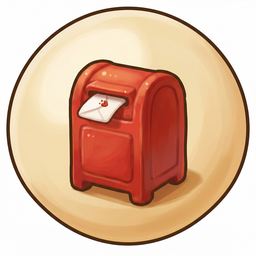
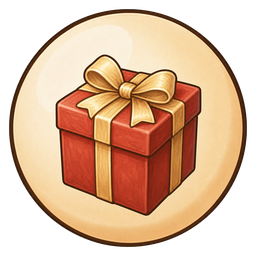
feat(nav): one matched badge set for the nav bar
Fixes review finding 10 — the primary navigation was four icons from three
different sets. All five badges commissioned from Manus and installed:

- nav-home    A.R.C. building, replacing the thatched cottage
- nav-care    single food bowl, brush removed (two objects merged at 38px)
- nav-social  wrapped gift, replacing the postbox (a metaphor no 7-year-old
              has the referent for — most have never posted a letter)
- nav-play    the existing paw, now inside the badge instead of floating bare
- fab-supplies  open crate, replacing fab-arc's lettered plaque — the most
              prominent control on screen was the only one carrying words

No wiring needed: NavBarView already preferred 'fab-supplies' over 'fab-arc',
and the asset manifest is a directory scan. fab-arc.png stays as the fallback.

The old set also disagreed on things the brief never mentioned, because it was
written from what the icons depict rather than from their pixels: three of five
were fully opaque (white corners, #EDEDED on fab-arc), and disc-to-canvas ran
0.930/0.938/0.875/0.770. tools/badge-postprocess.py normalises every piece to
a 238px disc on a 9px margin with clean alpha.

Also corrects three stale references found in passing: two NavBarView comments
that had gone false, assets-preview.html labelling nav-play as the FAB when it
is the Walk tab, and a dead card for nav-menu.png — a file that has never
existed in the repo, the same defect class as the finding itself.
[…]

diff --git a/apps/game/src/game-views/NavBarView.ts b/apps/game/src/game-views/NavBarView.ts
@@ -47,22 +47,19 @@ export function renderNavBar(
   const homeKey = scene.textures.exists('nav-home') ? 'nav-home' : 'icon-home';
   const careKey = scene.textures.exists('nav-care') ? 'nav-care' : 'icon-kitchen';
   const socialKey = scene.textures.exists('nav-social') ? 'nav-social' : 'icon-social';
-  // 'nav-walk' has never existed on disk, so this fell through to
-  // icon-walk: a pale grey paw-print at 128px filling ~40% of its canvas,
-  // drawn at 46px on a near-white bar. Next to three saturated 256px
-  // painterly badges it read as disabled rather than as a button.
-  // signs/nav-play.png is 256px, is from that same painterly set, and was
-  // referenced by nothing — the file that was made, unused, while the tab
-  // looked for a filename that was never made.
+  // 'nav-walk' has never existed on disk, and still doesn't. Keep reading
+  // 'nav-play' first: signs/nav-play.png is the file that exists, and adding
+  // a nav-walk.png would be dead art — the file made, unused, while the tab
+  // looked for a filename that was never made. Overwrite nav-play.png.
   const walkKey = scene.textures.exists('nav-play')
     ? 'nav-play'
     : (scene.textures.exists('nav-walk')
         ? 'nav-walk'
         : (scene.textures.exists('icon-walk') ? 'icon-walk' : 'icon-games'));
-  // Same story: 'fab-supplies' does not exist, so the most prominent control
-  // on the screen fell back to a flat brown truck on transparency, the only
-  // element on the bar drawn in a different style from everything round it.
-  // fab-arc is the painterly badge that belongs with the rest.
+  // 'fab-supplies' now exists — an open crate, commissioned 2026-08-30 with
+  // the rest of the set, replacing fab-arc's lettered wooden plaque. The
+  // plaque was the only control on the bar carrying words, which a
+  // pre-reader gets nothing from. fab-arc stays on disk as the fallback.
   const fabKey = scene.textures.exists('fab-supplies')
     ? 'fab-supplies'
     : (scene.textures.exists('fab-arc')

diff --git a/apps/game/public/admin/assets-preview.html b/apps/game/public/admin/assets-preview.html
@@ -62,8 +62,8 @@
     <div class="card"><img class="icon-img" src="/assets/signs/nav-home.png" alt="home"><span class="label">nav-home.png</span></div>
     <div class="card"><img class="icon-img" src="/assets/signs/nav-care.png" alt="care"><span class="label">nav-care.png</span></div>
     <div class="card"><img class="icon-img" src="/assets/signs/nav-social.png" alt="social"><span class="label">nav-social.png</span></div>
-    <div class="card"><img class="icon-img" src="/assets/signs/nav-menu.png" alt="menu"><span class="label">nav-menu.png</span></div>
-    <div class="card"><img class="icon-img" src="/assets/signs/nav-play.png" alt="play"><span class="label">nav-play.png (FAB)</span></div>
+    <div class="card"><img class="icon-img" src="/assets/signs/nav-play.png" alt="walk"><span class="label">nav-play.png (Walk tab)</span></div>
+    <div class="card"><img class="icon-img" src="/assets/signs/fab-supplies.png" alt="supplies"><span class="label">fab-supplies.png (FAB)</span></div>
   </div>
 </section>
 

diff --git a/tools/badge-postprocess.py b/tools/badge-postprocess.py
@@ -1,0 +1,120 @@
+#!/usr/bin/env python3
+"""Turn a Manus badge render into a set-matching 256x256 nav icon.
+
+The nav badges are a disc on transparency. `nav-home.png` is the exemplar:
+a 256 canvas whose alpha bbox is (9, 9, 247, 247) — a disc of diameter 238
+centred with a 9px margin. Three of the five icons currently shipped
+(nav-social, nav-care, fab-arc) are fully opaque instead, with white or grey
+corners; this script normalises everything to nav-home's geometry.
+
+Manus may deliver transparency, or a flat magenta field, or an opaque
+background of some other flat colour. All three are handled: the disc is
+located from whatever separates it from its surround, then re-cut to a clean
+circle so the edge is ours rather than the model's.
+
+    python3 tools/badge-postprocess.py IN.png OUT.png [--inspect]
+"""
+
+import sys
+from PIL import Image, ImageDraw, ImageFilter
+
+TARGET = 256
+# nav-home.png's geometry, measured from the shipped file.
+MARGIN = 9
+DIAMETER = TARGET - 2 * MARGIN  # 238
+SUPERSAMPLE = 8  # antialias the mask by cutting it large and downscaling
+
+
+def find_disc(im):
+    """Return (cx, cy, r) of the badge in image coordinates.
+
+    Prefers real alpha. Falls back to keying the background colour sampled
+    from the corners, which covers both the magenta fallback and an opaque
+    white/grey field.
+    """
+    w, h = im.size
+    alpha = im.split()[3]
+    bbox = alpha.getbbox()
+    opaque = alpha.histogram()[129:]
+    opaque = sum(opaque)
+
+    used_alpha = bbox is not None and opaque < 0.92 * w * h
+    if used_alpha:
+        x0, y0, x1, y1 = bbox
+    else:
+        px = im.load()
+        corners = [px[1, 1], px[w - 2, 1], px[1, h - 2], px[w - 2, h - 2]]
+        bg = tuple(sum(c[i] for c in corners) // 4 for i in range(3))
+        # Tolerance is generous: these renders have soft, slightly noisy fields.
+        tol = 46
+        mask = Image.new("L", (w, h), 0)
+        mp = mask.load()
+        for y in range(h):
+            for x in range(w):
+                r, g, b, _ = px[x, y]
+                if abs(r - bg[0]) + abs(g - bg[1]) + abs(b - bg[2]) > tol:
+                    mp[x, y] = 255
+        # Drop specks so a stray pixel cannot widen the bbox.
+        mask = mask.filter(ImageFilter.MedianFilter(5))
+        bbox = mask.getbbox()
+        if bbox is None:
+            raise SystemExit("could not locate the badge against its background")
+        x0, y0, x1, y1 = bbox
+
+    cx, cy = (x0 + x1) / 2, (y0 + y1) / 2
+    r = min(x1 - x0, y1 - y0) / 2
+    return cx, cy, r, ("alpha" if used_alpha else "keyed")
+
+
+def main():
+    args = [a for a in sys.argv[1:] if not a.startswith("--")]
+    inspect = "--inspect" in sys.argv
+    if len(args) != 2:
+        raise SystemExit(__doc__)
+    src, dst = args
+
+    im = Image.open(src).convert("RGBA")
+    cx, cy, r, how = find_disc(im)
+
+    if inspect:
+        ratio = (2 * r) / max(im.size)
+        print(f"{src}: size={im.size} via={how} centre=({cx:.0f},{cy:.0f}) "
+              f"r={r:.0f} disc/canvas={ratio:.3f} (target {DIAMETER/TARGET:.3f})")
+
+    # Crop a square exactly around the disc, then pad to nav-home's proportion.
+    pad = r * (TARGET / DIAMETER)
+    box = (round(cx - pad), round(cy - pad), round(cx + pad), round(cy + pad))
+    cut = im.crop(box)  # crop() zero-fills anything outside the source
+
+    big = TARGET * SUPERSAMPLE
+    cut = cut.resize((big, big), Image.LANCZOS)
+
+    mask = Image.new("L", (big, big), 0)
+    inset = MARGIN * SUPERSAMPLE
+    ImageDraw.Draw(mask).ellipse(
+        (inset, inset, big - inset - 1, big - inset - 1), fill=255
+    )
+
+    out = Image.new("RGBA", (big, big), (0, 0, 0, 0))
+    out.paste(cut, (0, 0), mask)
+    out = out.resize((TARGET, TARGET), Image.LANCZOS)
+
+    # A keyed background leaves a rim of blended background colour just inside
+    # the cut. Pull the edge in by a hair so none of it survives.
+    if how == "keyed":
+        trim = Image.new("L", (big, big), 0)
+        bite = inset + SUPERSAMPLE * 2
+        ImageDraw.Draw(trim).ellipse(
+            (bite, bite, big - bite - 1, big - bite - 1), fill=255
+        )
+        trim = trim.resize((TARGET, TARGET), Image.LANCZOS)
+        out.putalpha(Image.composite(out.split()[3], trim, trim.point(lambda v: 255 if v == 255 else 0)))
+
+    out.save(dst)
+    a = out.split()[3]
+    print(f"wrote {dst} {out.size} via={how} "
+          f"alpha_bbox={a.getbbox()} opaque={sum(a.histogram()[129:])}")
+
+
+if __name__ == "__main__":
+    main()

diff --git a/docs/nav-icon-commission-log-2026-08-30.md b/docs/nav-icon-commission-log-2026-08-30.md
@@ -1,0 +1,167 @@
+# Nav icon commission — sent log, 30 August 2026
+
+Companion to `nav-icon-brief-2026-08-30.md`, which was written for the OpenAI
+route and marked "not yet sent". **It has now been commissioned from Manus**,
+on Marcus's instruction, 30 August.
+
+## Deviation from Rule 6, and what was done about it
+
+`manus-sprite-rules.md` Rule 6 points set-matching work at OpenAI's
+`/v1/images/edits`, because Manus's failure mode is proceeding from the text
+description when it cannot fetch its references. Marcus chose Manus anyway.
+The mitigation was to remove the fetch from the equation:
+
+- All five references were **uploaded into the task as attachments** via the
+  v2 presigned flow (`POST /v2/file.upload`, then `PUT` to the returned
+  `upload_url`), not passed as URLs. Each was confirmed `status: uploaded`
+  before the task was created. The public Vercel URLs are in the brief as a
+  secondary fallback only.
+- The brief opens with a **STOP check**: describe each reference before
+  drawing, and stop if you cannot see them. This is the check that catches a
+  silent text-only generation regardless of whether the attachment content
+  part was shaped correctly.
+
+Upload can be driven from the shell — the MCP `manus_upload_file` tool wants
+`content_base64` in the call itself, which for five PNGs is ~100k characters
+of tokens. `curl` reads the file off disk instead. Note the presigned `PUT`
+must NOT carry the `x-manus-api-key` header.
+
+## Scope
+
+Marcus approved **all five** pieces, including the optional item 5 — so the
+thatched cottage is retired and Home becomes the A.R.C. building.
+
+| # | File | What |
+|---|---|---|
+| 1 | `fab-supplies.png` | open wooden crate, sack + bundle — replaces the lettered "A.R.C." plaque |
+| 2 | `nav-social.png` | wrapped gift — replaces the postbox |
+| 3 | `nav-care.png` | single food bowl — brush removed |
+| 4 | `nav-play.png` | existing orange paw, redrawn inside the badge |
+| 5 | `nav-home.png` | A.R.C. building in the badge — replaces the cottage |
+
+Overwrite `nav-play.png`; do **not** add `nav-walk.png` (see the brief —
+`NavBarView` checks `nav-play` first, and a `nav-walk.png` would sit unused,
+which is the mistake that produced finding 10 in the first place).
+
+## References uploaded
+
+`nav-home.png`, `nav-social.png`, `nav-care.png` (the badge exemplars),
+`driving/topdown/site-arc-building.png` (identity for piece 5) and the current
+`nav-play.png` (paw shape/colour for piece 4).
+
+The building reference carries "ANIMAL RESCUE CENTRE" lettering and is drawn
+in a lighter ink-and-wash style than the badges. The brief asks explicitly for
+the lettering to be dropped and the building repainted in the badge style.
+
+## Task
+
+`MhSrzYnKgTzV7L2C2xN3fU` — https://manus.im/app/MhSrzYnKgTzV7L2C2xN3fU
+Profile `manus-1.6-max`. Output lands in `manus-output/nav-icons/` (gitignored).
+
+## Post-processing still to do on delivery
+
+1. Mask to a clean circle with alpha (Manus may return flat magenta `#FF00FF`
+   instead of transparency — the brief permits it and says to declare which).
+2. `sips -Z 256` to the set's native size.
+3. `tools/optimise-sprites.ts --base=apps/game/public/assets signs` — dry run
+   first; it only writes with `--write`, and re-quantising an already-quantised
+   PNG is not a no-op.
+4. Compare each against `nav-home.png` at 46px before accepting.
+
+---
+
+## Outcome
+
+**Delivered and installed.** 719 credits, one revision round.
+
+Manus returned real alpha on every piece — the magenta fallback was not
+needed — and matched the badge geometry without being given a number: all
+five came back with the disc at 0.930 of the canvas, which is
+`nav-home.png`'s own proportion to three decimal places.
+
+The STOP check did its job. Manus described moss on the cottage roof, the
+envelope in the postbox slot, kibble in a peach bowl, blue-green windows on
+the building and gold edging on the paw — none of which appears anywhere in
+the brief text. It was reading the images, not the description. **The Rule 6
+failure mode did not occur.**
+
+Four of five passed first time. `nav-home` failed at true size on v1: the
+window mullions, railings and balcony lines collapsed into grey-blue stripes,
+the dome and flag were lost, and it was the only cool-toned icon in a warm
+set. v2 fixed it — paw print as the hero element, cream-to-honey facade, four
+plain windows, larger dome, flag dropped.
+
+Worth noting the failure was **not** a continuity failure. Manus drew a
+faithful, detailed building; it simply did not survive being shrunk to a
+thumbnail. OpenAI's edits endpoint could have made the same mistake. Rule 6
+guards against drift from missed references, which is a different problem.
+
+### What this fixed beyond finding 10
+
+The old set disagreed on things the brief never mentioned, because the brief
+was written from what the icons *depict* rather than from their pixels:
+
+- **Transparency.** `nav-home` and `nav-play` had alpha corners;
+  `nav-social`, `nav-care` and `fab-arc` were fully opaque — white corners on
+  the first two, `#EDEDED` on `fab-arc`. Invisible on a light bar, a visible
+  box on anything else.
+- **Disc size.** Disc-to-canvas ran 0.930 / 0.938 / 0.875 / 0.770 across the
+  set, so even the three sharing a treatment were drawn at different scales.
+
+`tools/badge-postprocess.py` normalises both: every piece is now a 238px disc
+on a 9px margin with clean alpha (max alpha outside the disc: 4/255).
+
+### Installation
+
+Dropping the files in was the whole change. `NavBarView.ts:66` already
+preferred `fab-supplies` over `fab-arc`, and the manifest
+(`apps/game/plugins/asset-manifest.ts`) is built by directory scan, so no code
+edit was needed to wire the new FAB.
+
+Three stale references were corrected while in the area:
+
+- `NavBarView.ts:62-65` said `'fab-supplies' does not exist`. It does now.
+- `admin/assets-preview.html` labelled `nav-play.png` as `(FAB)`. It is the
+  Walk tab; the FAB is `fab-supplies.png`, which the page did not list at all.
+- The same page had a card for `nav-menu.png`, which has never existed
+  anywhere in the repo — a dead reference of exactly the kind that produced
+  finding 10. Removed.
+
+`fab-arc.png` stays on disk as the coded fallback and is now unused.
+
+### Verification
+
+- 1120 tests pass (7 badges + 821 game-logic + 292 game). Typecheck, lint clean.
+- e2e smoke 3/3.
+- ux-review harness: 42 combinations, 27 FAIL / 84 WARN — unchanged from the
+  handover baseline, and F10 (the sprite contract) does not appear in the fix
+  order, so nothing regressed.
+- Display-list inspection in real Chrome at 812x375 confirms all five textures
+  resolve and draw in `GameScene`: `nav-home` 42x42 @(213,302), `nav-care`
+  38x38 @(303,304), `nav-play` 38x38 @(471,304), `nav-social` 38x38 @(559,304),
+  `fab-supplies` 42x42 @(385,278). **`fab-supplies` is what draws — not
+  `fab-arc`.**
+
+**Note the real draw sizes are 38-42px, not the 46-54px the brief assumed**,
+and the FAB is 42px, not 68. The set was judged at 46px, so it was assessed
+slightly larger than it actually ships. It still reads at 38px, but any future
+icon should be checked at 38.
+
+### Not verified
+
+The full nav bar could not be screenshotted unoccluded. Entering `GameScene`
+in a test raises an arrival card, and dismissing it triggers a "please sign in
+again" panel, because `seedFakeSession` writes a token Supabase will not
+accept. That panel is drawn inside the canvas, so it cannot be hidden by
+suppressing DOM overlays. The icons were confirmed by display-list position
+and inspected individually at full resolution and at true render size instead.
+Nobody has seen the finished bar on a physical device.
+
+### Trap worth knowing
+
+**`manus_download_output` pulls the task's input attachments alongside its
+outputs, and same-named files collide in the output directory.** Three
+uploaded references shared filenames with the renders. The 1024x1024 renders
+happened to be written last and won, but that is ordering luck. On the
+revision round three files called `nav-home.png` landed on one path — input,
+v1 and v2. **Verify by dimension or file size, never by filename.**

diff --git a/.claude/HANDOVER.md b/.claude/HANDOVER.md
@@ -21,6 +21,16 @@ animal card on a device — handlers were fired through Phaser's emitter, not re
 touch. `visual.spec.ts` is one screenshot of one screen and covers none of what
 moved.
 
+**Review item 13 (nav icons) is closed.** All five badges were commissioned
+from Manus and installed: `nav-home` (A.R.C. building, the cottage is retired),
+`nav-care` (food bowl), `nav-social` (gift), `nav-play` (paw, now in the badge)
+and the new `fab-supplies` (crate), which replaces `fab-arc`'s lettered plaque.
+Display-list inspection in Chrome confirms all five draw in `GameScene`. **The
+finished bar has never been seen unoccluded** — entering `GameScene` in a test
+raises an arrival card, and dismissing it triggers an in-canvas re-auth panel,
+because `seedFakeSession` writes a token Supabase rejects. See
+`docs/nav-icon-commission-log-2026-08-30.md`.
+
 ## Files
 - `.claude/TRAPS.md` — read first.
 - `apps/game/src/ui/sprites.ts` — the size contract, stated at the top.
@@ -28,7 +38,11 @@ moved.
   `__tests__/ux-geometry.test.ts` holds the review's own geometry.
 - `apps/game/e2e/ux-review.spec.ts` — the harness. Needs
   `ARC_BROWSER_CHANNEL=chrome`; writes `e2e/__ux__/ux-report.json`.
-- `docs/nav-icon-brief-2026-08-30.md` — icon commission, **not sent**.
+- `docs/nav-icon-brief-2026-08-30.md` — icon commission. **Sent, delivered,
+  installed**; outcome in `docs/nav-icon-commission-log-2026-08-30.md`.
+- `tools/badge-postprocess.py` — cuts a Manus render down to the set's badge
+  geometry (238px disc, 9px margin, clean alpha). Handles alpha, magenta or an
+  opaque field.
 
 ## Decisions made
 - **The box you ask for is the box that gets drawn.** The 2x multiplier and
@@ -46,8 +60,17 @@ moved.
   rectangle and its label siblings.
 - **Text resolution is set once per scene** (`ui/retina-text.ts`), not per style.
   Five scenes have it; the rest are one line each.
-- **The icon commission belongs to OpenAI, not Manus** — `manus-sprite-rules.md`
-  Rule 6, because every piece must match an existing set.
+- **The icon commission went to Manus after all**, on Marcus's instruction,
+  overriding `manus-sprite-rules.md` Rule 6. Rule 6's stated failure mode is
+  Manus proceeding from the text when it cannot fetch references, so the
+  references were **uploaded as attachments** rather than passed as URLs, and
+  the brief opened with a STOP check demanding a description of each one first.
+  Manus described details absent from the brief, so it was genuinely looking.
+  **Rule 6 stands** — but for a set-match with uploaded references and a STOP
+  check, Manus cleared it. The one failure was a judgement call, not drift: a
+  faithful, detailed building that did not survive being shrunk to a thumbnail.
+- **Icons are drawn at 38-42px, not the 46-54px the brief assumed** (the FAB is
+  42, not 68). Judge any future badge at 38px.
 
 ## Next step
 Review item 14, mechanical half only: raise the `clamp()` floors in

diff --git a/.claude/TRAPS.md b/.claude/TRAPS.md
@@ -286,3 +286,14 @@ checking the claim still holds.
   `apps/game/apps/game/src` and silently stashed nothing, and a batch of
   `ls` checks that read the wrong tree and looked like a broken install.
   Use absolute paths in anything whose correctness you will act on.
+- **`manus_download_output` pulls a task's INPUT attachments alongside its
+  outputs, into the same directory.** Reference images uploaded with the brief
+  come back down with the renders, and any that share a filename collide —
+  last write wins, which is ordering luck, not a guarantee. The 2026-08-30 nav
+  icon commission downloaded three files called `nav-home.png` to one path:
+  the uploaded reference, v1 and v2. **Verify by dimension or file size, never
+  by filename.** Renders were 1024x1024 / ~1MB; references 256x256 / ~85KB.
+- **Unquoted URLs containing a query string are glob-expanded by zsh**, so the
+  command dies before the request runs and the failure surfaces downstream as
+  a JSON decode error that looks like an API fault. Quote the URL, or put it in
+  a variable and quote that.
